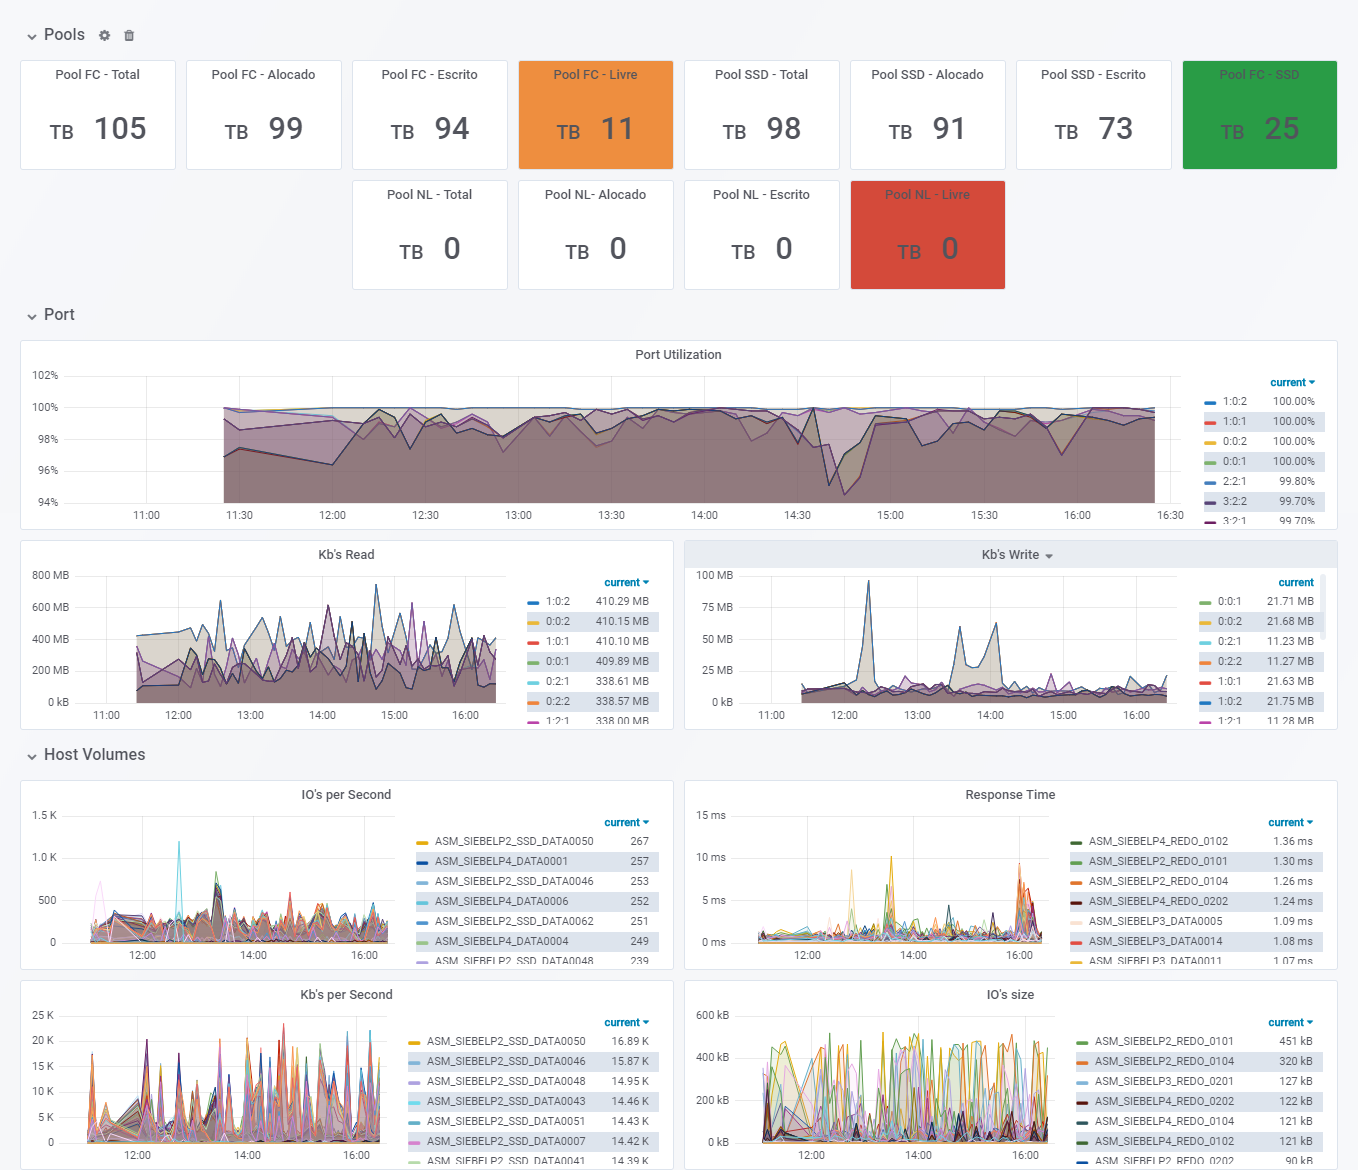
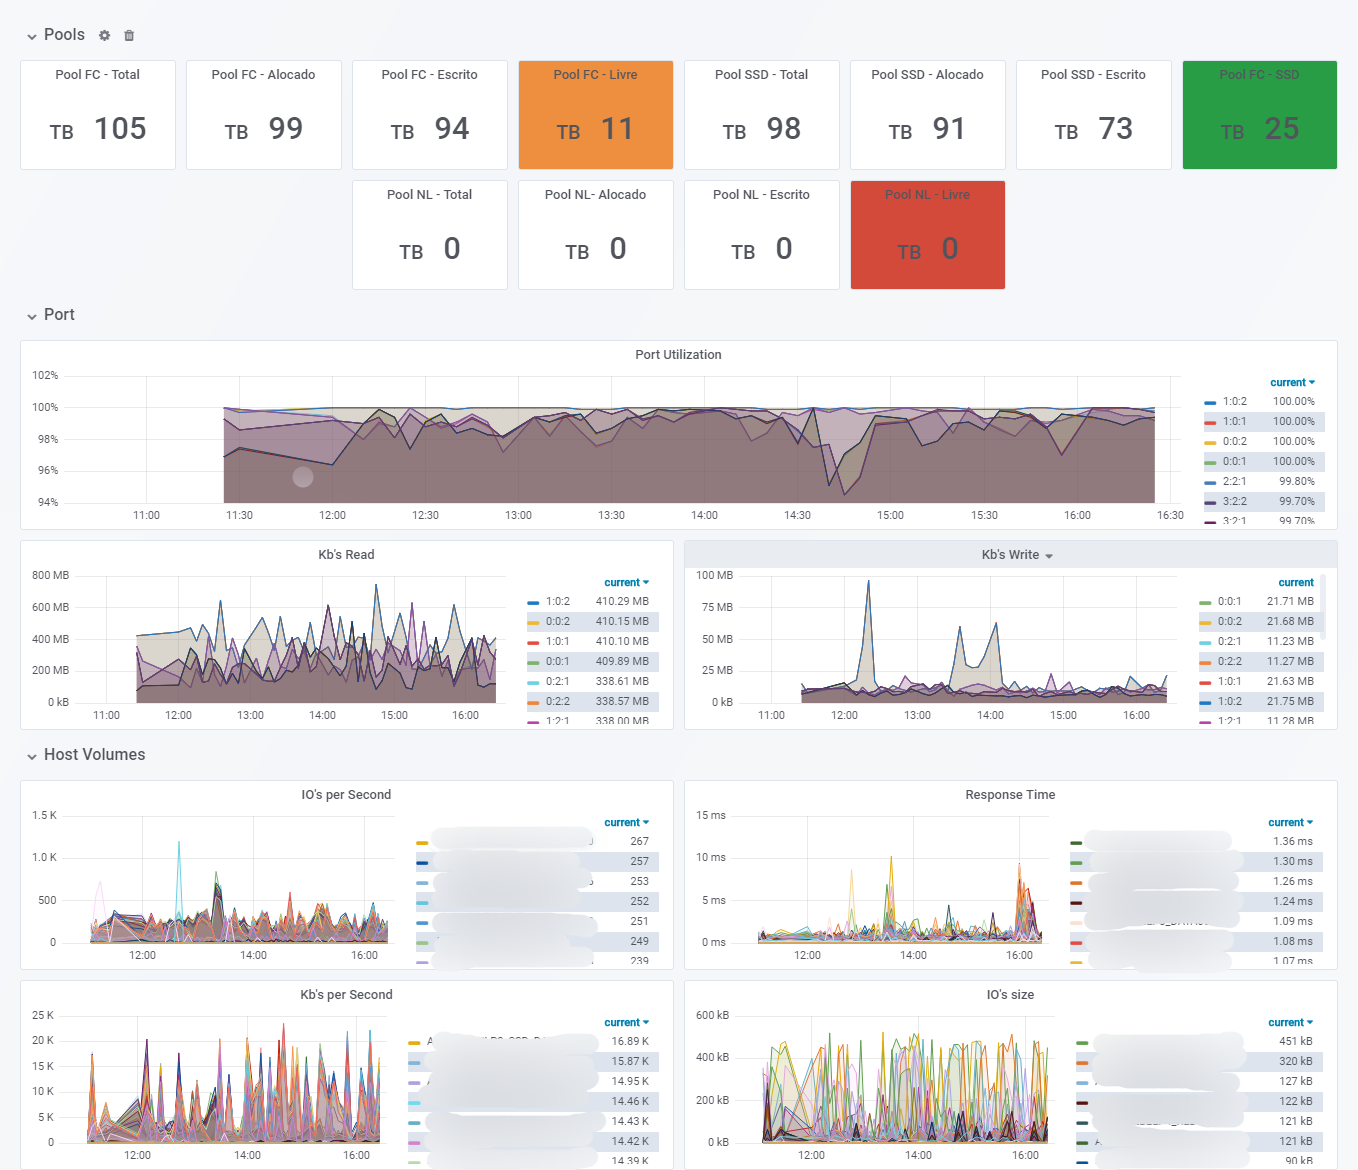
Remove info

diff --git a/README.md b/README.md
@@ -109,4 +109,6 @@ Grafana dashboard exported in json format.
 ### VNX
 ![alt text](https://raw.githubusercontent.com/FakeCast/vmax_monitor/master/vnx_dashboard.png)
 
+### 3PAR
+![alt text](https://raw.githubusercontent.com/FakeCast/vmax_monitor/master/3par_dashboard.png)
 
